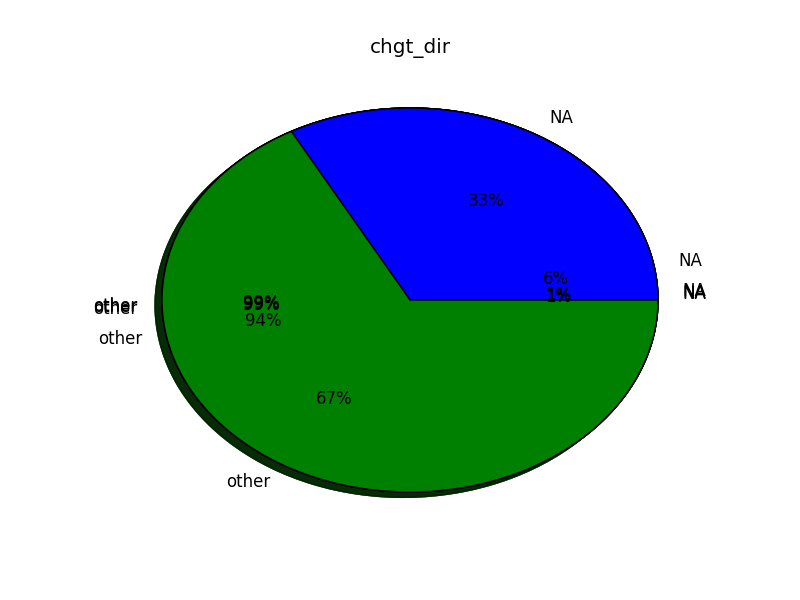
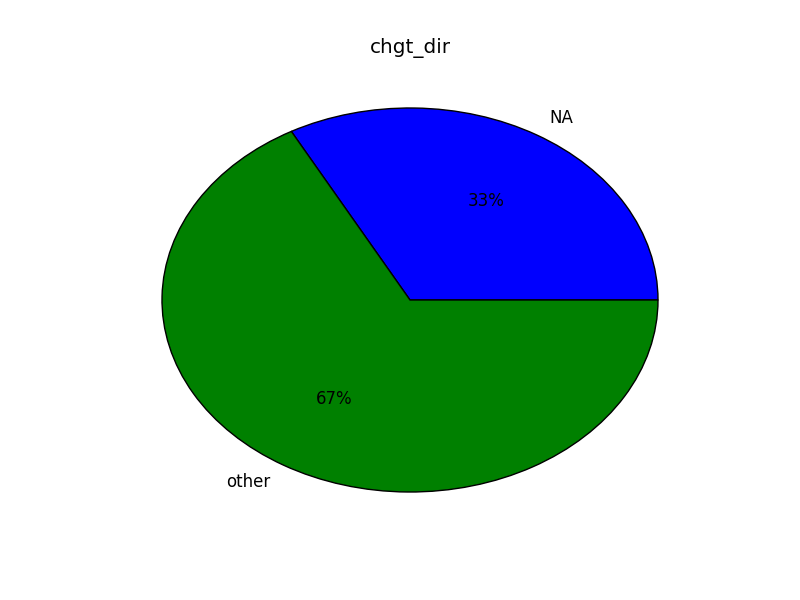
fin de pretraitement

diff --git a/visualisation.py b/visualisation.py
@@ -23,9 +23,10 @@ for label in data.columns:
                 print("=========="+label+"==========")
                 print("nombre 	:"+str(nombre))
                 print("Pourcentage 	:"+str(percent))
-                plt.pie([percent,100-percent], labels=["NA","other"], autopct='%.0f%%', shadow=True,)
+                plt.pie([percent,100-percent], labels=["NA","other"], autopct='%.0f%%')
                 plt.title(label)
                 plt.savefig(label)
+                plt.close()
 #plt.plot(data.ca_total_FL,data.ratio_benef)
 #plt.scatter(data.ca_total_FL,data.ratio_benef)
 #plt.savefig("corr")
@@ -50,21 +51,44 @@ for label in data.columns:
   Pourcentage trés faible correspondant à  936 lignes.
   => suppression des lignes
 """
+risque_undefined_rows = data.loc[lambda df: df['risque'].isnull()]
+data.drop(risque_undefined_rows.index)
+
 
 """
   ==========evo_risque==========
   nombre  :1538
   Pourcentage   :1.41651930445
 
+  Pourcentage faible correspondant à 1538 ligne.
+
+  On remarque aussi que 87% de ces instances(où evo_risque == NA) on pour valeur de rdv =0.
+  vu qu'à la base 89.7 % des instances de la base on un rdv =0, donc la meilleure solution est d'effacer
+  toutes les instances dont la colonne evo_risque == NA pour que cet attribut soit un peu plus discrminant pour l'attribut rdv.
+  
 """
+evo_risque_undefined_rows = data.loc[lambda df: df['evo_risque'].isnull()]
+data.drop(evo_risque_undefined_rows.index)
+
+
 
 """
-==========type_com==========
-nombre  :1079
-Pourcentage   :0.99377394636
-==========chgt_dir==========
-nombre  :35766
-Pourcentage   :32.9409814324
+  ==========type_com==========
+  nombre  :1079
+  Pourcentage   :0.99377394636
+  pourcentage trés faible correspondant à 1079 lignes.
+"""
+type_com_undefined_rows = data.loc[lambda df: df['type_com'].isnull()]
+data.drop(evo_risque_undefined_rows.index)
+
+
+"""
+  ==========chgt_dir==========
+  nombre  :35766
+  Pourcentage   :32.9409814324
+  attribut de nature catégoricale encodé en numérique [0,1].
+  pourcentage trés elevés.
+  La meilleure solution est de créer une nouvelle categorie reprensenté par 2.
 """
 exit()
 for label in labels:
